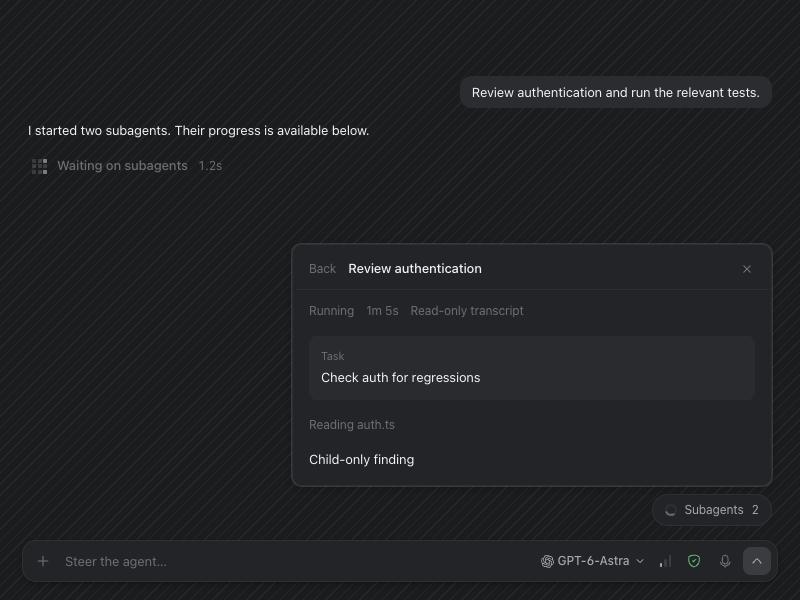
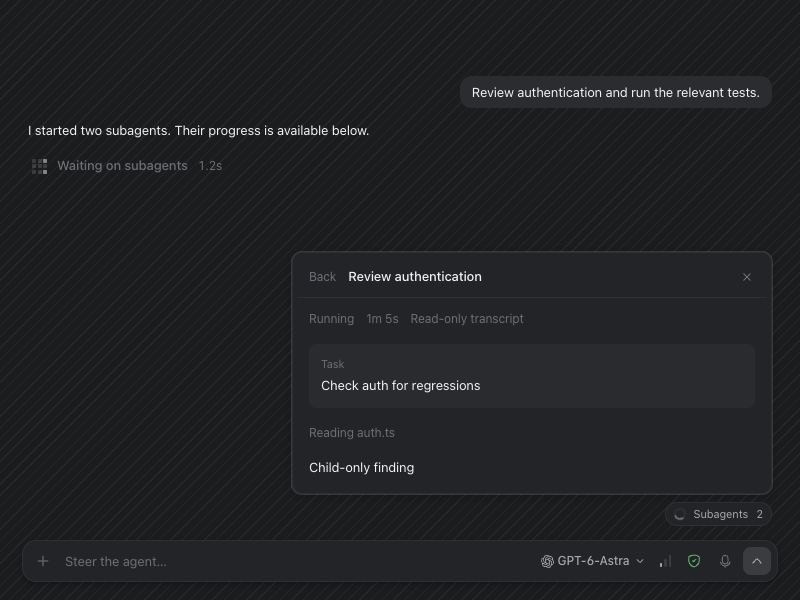
feat: simplify subagent controls and archive finished children

diff --git a/app/src/components/agents/SubagentTrack.tsx b/app/src/components/agents/SubagentTrack.tsx
@@ -1,9 +1,9 @@
 import { useEffect, useId, useLayoutEffect, useRef, useState } from "react";
 import { createPortal } from "react-dom";
 import { HugeiconsIcon } from "@hugeicons/react";
-import { Archive02Icon, Cancel01Icon, Unlink01Icon } from "@hugeicons/core-free-icons";
+import { Archive02Icon, Cancel01Icon } from "@hugeicons/core-free-icons";
 import type { ModelProvider, Subagent } from "../../model";
-import { subagentActive } from "../../lib/subagents";
+import { subagentActive, subagentFinished } from "../../lib/subagents";
 import { Markdown } from "../markdown/Markdown";
 import { ProviderLogo } from "../ProviderLogo";
 import { SpinnerRing } from "../primitives/SpinnerRing";
@@ -32,11 +32,11 @@ export function SubagentTranscript({ agent }: { agent: Subagent }) {
   </div>;
 }
 
-/** A nonmodal list anchored above the composer. Archive/unlink affect views, not provider execution. */
-export function SubagentTrack({ agents, provider = "codex", onDetach, onArchive }: {
+/** A nonmodal list anchored above the composer. Archiving affects views, not provider execution. */
+export function SubagentTrack({ agents, provider = "codex", onArchiveFinished, onArchive }: {
   agents: Subagent[];
   provider?: ModelProvider;
-  onDetach?: (id: string) => void;
+  onArchiveFinished?: () => void;
   onArchive?: (id: string, archived: boolean) => void;
 }) {
   const trigger = useRef<HTMLButtonElement>(null);
@@ -46,10 +46,9 @@ export function SubagentTrack({ agents, provider = "codex", onDetach, onArchive 
   const [selected, setSelected] = useState<string | null>(null);
   const [archived, setArchived] = useState(false);
   const [bounds, setBounds] = useState({ left: 12, bottom: 60, width: 420, maxHeight: 320 });
-  const linked = agents.filter(agent => !agent.detachedSessionId);
-  const visible = linked.filter(agent => !agent.archived);
-  const archivedCount = linked.length - visible.length;
-  const rows = linked.filter(agent => Boolean(agent.archived) === archived);
+  const visible = agents.filter(agent => !agent.archived);
+  const archivedCount = agents.length - visible.length;
+  const rows = agents.filter(agent => Boolean(agent.archived) === archived);
   const child = rows.find(agent => agent.id === selected);
   const close = () => { setOpened(false); trigger.current?.focus(); };
 
@@ -85,10 +84,10 @@ export function SubagentTrack({ agents, provider = "codex", onDetach, onArchive 
     return () => { cancelAnimationFrame(frame); document.removeEventListener("pointerdown", outside, true); document.removeEventListener("keydown", escape, true); };
   }, [opened]);
 
-  if (!linked.length) return null;
+  if (!agents.length) return null;
   const actionClass = "flex size-6 items-center justify-center rounded text-ink-3 hover:bg-hover hover:text-ink focus-visible:outline-2 disabled:opacity-40";
   return <div className="mx-auto mb-2 flex w-full max-w-3xl shrink-0 justify-end px-3" data-slot="subagent-track">
-    <button ref={trigger} type="button" aria-haspopup="dialog" aria-expanded={opened} aria-controls={opened ? panelId : undefined} onClick={() => { setSelected(null); setArchived(false); setOpened(!opened); }} className="flex items-center gap-2 rounded-full border border-line bg-surface px-3 py-1.5 text-[12px] text-ink-2 hover:bg-hover focus-visible:outline-2">
+    <button ref={trigger} type="button" aria-haspopup="dialog" aria-expanded={opened} aria-controls={opened ? panelId : undefined} onClick={() => { setSelected(null); setArchived(false); setOpened(!opened); }} className="flex items-center gap-2 rounded-full border border-line bg-surface h-6 px-2 text-[11px] text-ink-2 hover:bg-hover focus-visible:outline-2">
       {visible.some(subagentActive) && <SpinnerRing size={12} />}
       Subagents <span className="tabular-nums">{visible.length}</span>
     </button>
@@ -110,6 +109,11 @@ export function SubagentTrack({ agents, provider = "codex", onDetach, onArchive 
         </header>
         <div className="min-h-0 overflow-y-auto overscroll-contain"><SubagentTranscript agent={child} /></div>
       </> : <>
+        {!archived && <div className="mb-1 shrink-0 border-b border-line pb-1">
+          <button type="button" data-subagent-archive-finished disabled={!onArchiveFinished || !visible.some(subagentFinished)} onClick={onArchiveFinished} className="flex w-full items-center gap-2 rounded-md px-2 py-2 text-left text-[13px] text-ink-2 hover:bg-hover focus-visible:outline-2 disabled:opacity-40 disabled:hover:bg-transparent">
+            <HugeiconsIcon icon={Archive02Icon} size={14} />Archive finished subagents
+          </button>
+        </div>}
         <ul className="min-h-0 overflow-y-auto overscroll-contain">
           {rows.map(agent => <li key={agent.id} data-subagent-row className="group flex items-center gap-1 rounded-md px-1 hover:bg-hover focus-within:bg-hover">
             <button type="button" data-subagent-open onClick={() => setSelected(agent.id)} title={`${agent.title} (${labels[agent.status]})`} className="flex min-w-0 flex-1 items-center gap-2 py-2 pl-1 text-left text-[13px] focus-visible:outline-2">
@@ -117,12 +121,11 @@ export function SubagentTrack({ agents, provider = "codex", onDetach, onArchive 
               <span className="truncate">{agent.title}</span>
             </button>
             <span className="flex shrink-0 opacity-0 transition-opacity group-hover:opacity-100 group-focus-within:opacity-100 [@media(hover:none)]:opacity-100">
-              {!archived && <Tooltip label="Unlink subagent"><button type="button" aria-label={`Unlink ${agent.title}`} disabled={!onDetach} onClick={() => { close(); onDetach?.(agent.id); }} className={actionClass}><HugeiconsIcon icon={Unlink01Icon} size={14} /></button></Tooltip>}
               <Tooltip label={archived ? "Restore subagent" : "Archive subagent"}><button type="button" aria-label={`${archived ? "Restore" : "Archive"} ${agent.title}`} disabled={!onArchive} onClick={() => onArchive?.(agent.id, !archived)} className={actionClass}><HugeiconsIcon icon={Archive02Icon} size={14} /></button></Tooltip>
             </span>
           </li>)}
         </ul>
-        {!rows.length && <p className="px-3 py-5 text-[12px] text-ink-3">{archived ? "No archived subagents." : "No linked subagents."}</p>}
+        {!rows.length && <p className="px-3 py-5 text-[12px] text-ink-3">{archived ? "No archived subagents." : "No subagents to show."}</p>}
         {(archivedCount > 0 || archived) && <button type="button" data-subagent-archived-toggle onClick={() => setArchived(!archived)} className="mt-1 border-t border-line px-2 py-2 text-left text-[11px] text-ink-3 hover:text-ink">{archived ? "Back to subagents" : `Archived (${archivedCount})`}</button>}
       </>}
     </div>, document.body)}

diff --git a/app/src/components/ChatComposer.tsx b/app/src/components/ChatComposer.tsx
@@ -1,4 +1,4 @@
-import { SubagentTrack, SubagentTranscript } from "./agents/SubagentTrack";
+import { SubagentTrack } from "./agents/SubagentTrack";
 import type { Subagent } from "../model";
 import { memo, useEffect, useState } from "react";
 import type { ComponentProps, DragEvent, ReactNode } from "react";
@@ -104,8 +104,7 @@ interface ChatComposerProps {
   /** The running turn's tool steps, where they happened in `streamingText`. */
   streamingSteps?: ChatStep[];
   subagents?: Subagent[];
-  readOnlySubagent?: Subagent;
-  onDetachSubagent?: (id: string) => void;
+  onArchiveFinishedSubagents?: () => void;
   onArchiveSubagent?: (id: string, archived: boolean) => void;
   waitingForSubagents?: boolean;
   /** Steps of the running turn whose approval card is open. */
@@ -260,8 +259,7 @@ export function ChatComposer({
   streamingText,
   streamingSteps,
   subagents = [],
-  readOnlySubagent,
-  onDetachSubagent,
+  onArchiveFinishedSubagents,
   onArchiveSubagent,
   waitingForSubagents = false,
   waitingStepIds,
@@ -362,7 +360,7 @@ export function ChatComposer({
         autoScrollKey={`${messages.length}-${isSending}-${streamingText?.length ?? 0}-${streamingSteps?.length ?? 0}`}
         viewportProps={{ onScroll: (event) => setScrolled(event.currentTarget.scrollTop > 4) }}
       >
-        {readOnlySubagent ? <div data-slot="subagent-read-only" className="mx-auto w-full max-w-3xl px-3 pt-12 pb-4"><SubagentTranscript agent={readOnlySubagent} /></div> : tab === "Worktrees" ? (
+        {tab === "Worktrees" ? (
           <div className="mx-auto flex min-h-full w-full max-w-3xl flex-col gap-3 px-3 pt-12 pb-4">
             {messages.map((message) => (
               <MessageSection
@@ -404,12 +402,12 @@ export function ChatComposer({
           </div>
         )}
       </MessageScroller>}
-      <SubagentTrack key={messages[0]?.session_id ?? "new"} agents={subagents} provider={lockedProvider ?? selectedModel.provider} onDetach={onDetachSubagent} onArchive={onArchiveSubagent} />
+      <SubagentTrack key={messages[0]?.session_id ?? "new"} agents={subagents} provider={lockedProvider ?? selectedModel.provider} onArchiveFinished={onArchiveFinishedSubagents} onArchive={onArchiveSubagent} />
 
       <div className={`mx-auto w-full max-w-3xl shrink-0 p-1.5 ${isNewChat ? "" : "mt-auto"}`}>
         {isNewChat && <NewChatHeader worktrees={worktrees} selectedWorktreeId={selectedWorktreeId} onWorktreeChange={onWorktreeChange} isolation={isolation} onIsolationChange={onIsolationChange} branches={branches} baseBranch={baseBranch} onBaseBranchChange={onBaseBranchChange} />}
         {approval && <div className="mb-2 w-full">{approval}</div>}
-        {readOnlySubagent ? <p className="py-3 text-center text-[12px] text-ink-3">Read-only subagent. Work continues in its original session.</p> : <PromptComposer
+        <PromptComposer
           imageDraft={imageDraft}
           projectPath={projectPath}
           draft={draft}
@@ -433,7 +431,7 @@ export function ChatComposer({
           permissionMode={permissionMode}
           onPermissionModeChange={onPermissionModeChange}
           alwaysExpanded={isNewChat}
-        />}
+        />
         {dropError && <p role="alert" className="mt-2 px-1 text-[12px] text-red">{dropError}</p>}
         {isNewChat && newChatError && <p role="alert" className="mt-2 px-1 text-[12px] text-red">{newChatError}</p>}
       </div>

diff --git a/app/src/App.tsx b/app/src/App.tsx
@@ -1,4 +1,4 @@
-import { archiveSubagent, detachSubagent, subagentActive } from "./lib/subagents";
+import { archiveSubagent, archiveFinishedSubagents } from "./lib/subagents";
 import { useCallback, useEffect, useMemo, useRef, useState } from "react";
 import { flushSync } from "react-dom";
 import {
@@ -286,7 +286,7 @@ function App() {
         return {
           id: String(session.id),
           label: chatTitle(session, sessionMessages),
-          mark: chatMark({ waiting: waiting.has(session.id), running: running.has(session.id) || Boolean(session.subagentSnapshot && subagentActive(session.subagentSnapshot)), unread: Boolean(session.unread) }),
+          mark: chatMark({ waiting: waiting.has(session.id), running: running.has(session.id), unread: Boolean(session.unread) }),
           unread: Boolean(session.unread),
           details: {
             branch: worktree?.name,
@@ -324,13 +324,12 @@ function App() {
     commit(archiveSubagent(latest, parentId, id, archived));
   }
 
-  function unlinkChild(id: string) {
+  function archiveFinishedChildren() {
     const latest = stateRef.current;
     const parentId = selectedSessionRef.current;
     if (!latest || parentId === null) return;
-    const result = detachSubagent(latest, parentId, id);
-    if (result.state !== latest) commit(result.state);
-    if (result.sessionId !== undefined) openChat(result.sessionId);
+    const next = archiveFinishedSubagents(latest, parentId);
+    if (next !== latest) commit(next);
   }
 
   function openChat(sessionId: number) {
@@ -383,7 +382,6 @@ function App() {
   async function checkArchive(sessionId: number): Promise<ArchivePlan> {
     const latest = stateRef.current;
     const worktree = latest ? latest.worktrees[latest.sessions[sessionId]?.worktree_id ?? -1] : undefined;
-    if (latest?.sessions[sessionId]?.subagentSource) return { milagreOwned: false, shared: true, status: null };
     if (!latest || !isMilagreWorktree(worktree, await window.milagre.getWorktreeRoots())) return { milagreOwned: false, shared: false, status: null };
     if (worktreeShared(latest, sessionId)) return { milagreOwned: true, shared: true, status: null };
     return { milagreOwned: true, shared: false, status: await window.milagre.getWorktreeStatus(worktree.path, worktree.base!) };
@@ -563,7 +561,6 @@ function App() {
   }
 
   async function executeSend(body: string, mode: PermissionMode, images: ImageAttachment[] = imageDraft.images) {
-    if (selectedSession?.subagentSource) return;
     if ((!body && !images.length) || !state || !selectedWorktree || !project || preparing || imageDraft.loading) return;
     // A switch is stopping this project's turns: a new one would start behind the stop. The draft stays.
     if (!switcher.canSend()) return;
@@ -850,8 +847,7 @@ function App() {
             streamingText={run?.text}
             streamingSteps={run?.steps}
             subagents={selectedSession?.subagents}
-            readOnlySubagent={selectedSession?.subagentSnapshot}
-            onDetachSubagent={unlinkChild}
+            onArchiveFinishedSubagents={archiveFinishedChildren}
             onArchiveSubagent={archiveChild}
             waitingForSubagents={run?.waitingForSubagents}
             waitingStepIds={run?.approvals.flatMap((request) => (request.stepId ? [request.stepId] : []))}

diff --git a/app/src/lib/subagents.ts b/app/src/lib/subagents.ts
@@ -9,37 +9,10 @@ export function archiveSubagent(state: CoordinatorState, parentId: number, id: s
   return { ...state, sessions: { ...state.sessions, [parentId]: { ...session, subagents: session.subagents.map(agent => agent.id === id ? { ...agent, archived } : agent) } } };
 }
 
-const transcriptBody = (agent: Subagent) => agent.transcript.map(entry => entry.text).join("\n\n") || agent.prompt || "No child output received yet.";
+export const subagentFinished = (agent: Subagent) => ["completed", "failed", "cancelled"].includes(agent.status);
 
-/** Unlink the view, not the provider runtime. Preserve provenance to route future updates. */
-export function detachSubagent(state: CoordinatorState, parentId: number, id: string): { state: CoordinatorState; sessionId?: number } {
-  const parent = state.sessions[parentId];
-  const agent = parent?.subagents?.find(agent => agent.id === id);
-  if (!agent) return { state };
-  if (agent.detachedSessionId) return { state, sessionId: agent.detachedSessionId };
-  const sessionId = state.next_id;
-  const messageId = sessionId + 1;
-  const linked = { ...agent, detachedSessionId: sessionId };
-  return {
-    sessionId,
-    state: {
-      ...state, next_id: messageId + 1,
-      sessions: {
-        ...state.sessions,
-        [parentId]: { ...parent, subagents: parent.subagents!.map(child => child.id === id ? linked : child) },
-        [sessionId]: { id: sessionId, worktree_id: parent.worktree_id, agent_name: parent.agent_name, status: "Created", provider: parent.provider, title: agent.title, subagentSource: { parentSessionId: parentId, subagentId: id, messageId }, subagentSnapshot: linked },
-      },
-      messages: [...state.messages, { id: messageId, session_id: sessionId, role: "assistant", context: null, body: transcriptBody(agent) }],
-    },
-  };
-}
-
-export function updateDetachedSubagent(state: CoordinatorState, parentId: number, agent: Subagent): CoordinatorState {
-  const target = agent.detachedSessionId && state.sessions[agent.detachedSessionId];
-  if (!target || target.subagentSource?.parentSessionId !== parentId || target.subagentSource.subagentId !== agent.id) return state;
-  return {
-    ...state,
-    sessions: { ...state.sessions, [target.id]: { ...target, subagentSnapshot: agent } },
-    messages: state.messages.map(message => message.id === target.subagentSource!.messageId ? { ...message, body: transcriptBody(agent) } : message),
-  };
+export function archiveFinishedSubagents(state: CoordinatorState, parentId: number): CoordinatorState {
+  const session = state.sessions[parentId];
+  if (!session?.subagents?.some(agent => !agent.archived && subagentFinished(agent))) return state;
+  return { ...state, sessions: { ...state.sessions, [parentId]: { ...session, subagents: session.subagents.map(agent => !agent.archived && subagentFinished(agent) ? { ...agent, archived: true } : agent) } } };
 }

diff --git a/app/src/lib/subagents.test.ts b/app/src/lib/subagents.test.ts
@@ -1,6 +1,6 @@
 import test from "node:test";
 import assert from "node:assert/strict";
-import { archiveSubagent, detachSubagent } from "./subagents.ts";
+import { archiveSubagent, archiveFinishedSubagents } from "./subagents.ts";
 import { applyAgentEvent } from "./agent-runs.ts";
 import type { CoordinatorState, Subagent } from "../model";
 const child: Subagent = { id: "child", title: "Review auth", status: "running", startedAt: 1, updatedAt: 2, transcript: [{ id: "m", kind: "message", text: "Partial review" }] };
@@ -14,19 +14,14 @@ test("archiving a child preserves its output and survives later provider updates
  state = archiveSubagent(state, 1, "child", false);
  assert.equal(Boolean(state.sessions[1].subagents?.[0].archived), false);
 });
-test("unlink creates one read-only chat and continues to route child updates into it", () => {
- let { state, sessionId } = detachSubagent(base(), 1, "child");
- assert.equal(sessionId, 10);
- assert.equal(state.sessions[1].subagents?.[0].detachedSessionId, 10);
- assert.equal(state.sessions[10].subagentSource?.parentSessionId, 1);
- assert.equal(state.sessions[10].native_session_id, undefined);
- assert.equal(state.sessions[10].title, "Review auth");
- assert.equal(state.messages.find(m=>m.session_id===10)?.body, "Partial review");
- const again = detachSubagent(state, 1, "child");
- assert.equal(again.state, state);
- assert.equal(again.sessionId, 10);
- ({ state } = applyAgentEvent(state, {}, "/repo", "/repo#1", { type: "subagent-update", agent: { ...child, updatedAt: 3, status: "completed", transcript: [{ id: "m", kind: "message", text: "Review complete" }] } }));
- assert.equal(state.sessions[10].subagentSnapshot?.status, "completed");
- assert.equal(state.messages.find(m=>m.session_id===10)?.body, "Review complete");
- assert.equal(state.sessions[1].subagents?.[0].detachedSessionId, 10);
+test("archive finished hides only known terminal children and preserves their output", () => {
+ const state = base();
+ const statuses = ["initializing", "running", "waiting", "completed", "failed", "cancelled", "unknown"] as const;
+ state.sessions[1].subagents = statuses.map(status => ({ ...child, id: status, status }));
+ const next = archiveFinishedSubagents(state, 1);
+ assert.deepEqual(next.sessions[1].subagents?.filter(agent => agent.archived).map(agent => agent.id), ["completed", "failed", "cancelled"]);
+ assert.equal(next.sessions[1].subagents?.find(agent => agent.id === "failed")?.transcript[0].text, "Partial review");
+ assert.equal(next.sessions[1].subagents?.find(agent => agent.id === "unknown")?.archived, undefined);
+ assert.equal(archiveFinishedSubagents(next, 1), next);
+ assert.equal(archiveFinishedSubagents(state, 42), state);
 });

diff --git a/app/src/lib/agent-runs.ts b/app/src/lib/agent-runs.ts
@@ -1,4 +1,3 @@
-import { updateDetachedSubagent } from "./subagents.ts";
 import type { AgentEvent, ChatMessage, ChatStep, CoordinatorState, ModelOption, ModelProvider, PermissionDecision, PermissionRequest, QuestionRequest } from "../model";
 
 /** What the user sent for a request the turn waits on: an approval decision, or a question answered or dismissed. */
@@ -139,14 +138,13 @@ export function applyAgentEvent(state: CoordinatorState, runs: AgentRuns, projec
       const agent = previous ? {
         ...event.agent,
         archived: previous.archived,
-        detachedSessionId: previous.detachedSessionId,
         title: event.agent.title === "Subagent" ? previous.title : event.agent.title,
         prompt: event.agent.prompt ?? previous.prompt,
         startedAt: Math.min(previous.startedAt, event.agent.startedAt),
         transcript: [...new Map([...previous.transcript, ...event.agent.transcript].map(entry => [entry.id, entry])).values()].slice(-100),
       } : event.agent;
       const subagents = previous ? children.map(child => child.id === agent.id ? agent : child) : [...children, agent];
-      return { state: updateDetachedSubagent({ ...state, sessions: { ...state.sessions, [sessionId]: { ...session, subagents } } }, sessionId, agent), runs, changed: true };
+      return { state: { ...state, sessions: { ...state.sessions, [sessionId]: { ...session, subagents } } }, runs, changed: true };
     }
     case "subagents-waiting":
       return run ? { state, runs: { ...runs, [chatId]: { ...run, waitingForSubagents: event.waiting } }, changed: false } : { state, runs, changed: false };

diff --git a/app/src/model.ts b/app/src/model.ts
@@ -156,9 +156,6 @@ export interface AgentSession {
   /** Claude session id or Codex thread id, used to resume the agent's memory. */
   native_session_id?: string;
   subagents?: Subagent[];
-  /** Independent read-only view of a provider-owned child. Never resumed as a root agent. */
-  subagentSource?: { parentSessionId: number; subagentId: string; messageId: number };
-  subagentSnapshot?: Subagent;
   /** A name the user gave the chat; otherwise it's named after its first message. */
   title?: string;
   /** A turn ended while the chat wasn't open, or the user marked it unread. */
@@ -283,7 +280,6 @@ export type QuestionOutcome = "answered" | "dismissed" | "cancelled";
 export interface Subagent {
   id: string;
   archived?: boolean;
-  detachedSessionId?: number;
   parentId?: string;
   title: string;
   prompt?: string;

diff --git a/docs/specs/002-agent-sessions.md b/docs/specs/002-agent-sessions.md
@@ -136,7 +136,7 @@ Renderer to main:
     - The step fails when `is_error` is true: a tool error, a denied approval, or a tool cut off by Stop.
     - Edit and Write diffs come from the message's `tool_use_result.structuredPatch`, or from the input when there is none.
     - A read that worked keeps no detail.
-  - **Subagents.** The parent reply keeps the `Agent` launch as one step. Child messages appear in a persistent Subagents control near the composer, with the chat activity indicator and an anchored popover of child names. Each row offers unlink and archive actions. Selecting a child shows its status, elapsed time, latest activity, and a read-only transcript in the popover. Unlink moves the child into a separate read-only chat that continues receiving output from its original provider session. Archive hides the child from the list and can be reversed from Archived; neither view action stops provider execution. Claude task events and Codex child activity track completion independently of the parent turn. Finished and failed children stay available; disconnected children show status unavailable until the provider reports them again.
+  - **Subagents.** The parent reply keeps the `Agent` launch as one step. Child messages appear in a persistent Subagents control near the composer, with the chat activity indicator and an anchored popover of child names. Each row offers an archive action. The compact trigger uses the same activity indicator as the tab bar. Selecting a child shows its status, elapsed time, latest activity, and a read-only transcript in the popover. Archive hides the child from the list and can be reversed from Archived; archiving does not stop provider execution. The top action manually archives all completed, failed, or stopped children, leaving active and status-unavailable children visible. Claude task events and Codex child activity track completion independently of the parent turn. Finished and failed children stay available; disconnected children show status unavailable until the provider reports them again.
     - Its detail is the agent's report, from `tool_use_result.content`.
     - Claude often starts agents in the background. Then the step completes at launch, titled "Started an agent: …". The report arrives after the turn ends, in a turn Claude Code starts by itself (see Steering).
   - `result` becomes `turn-completed`, or `turn-failed` when `is_error`.
